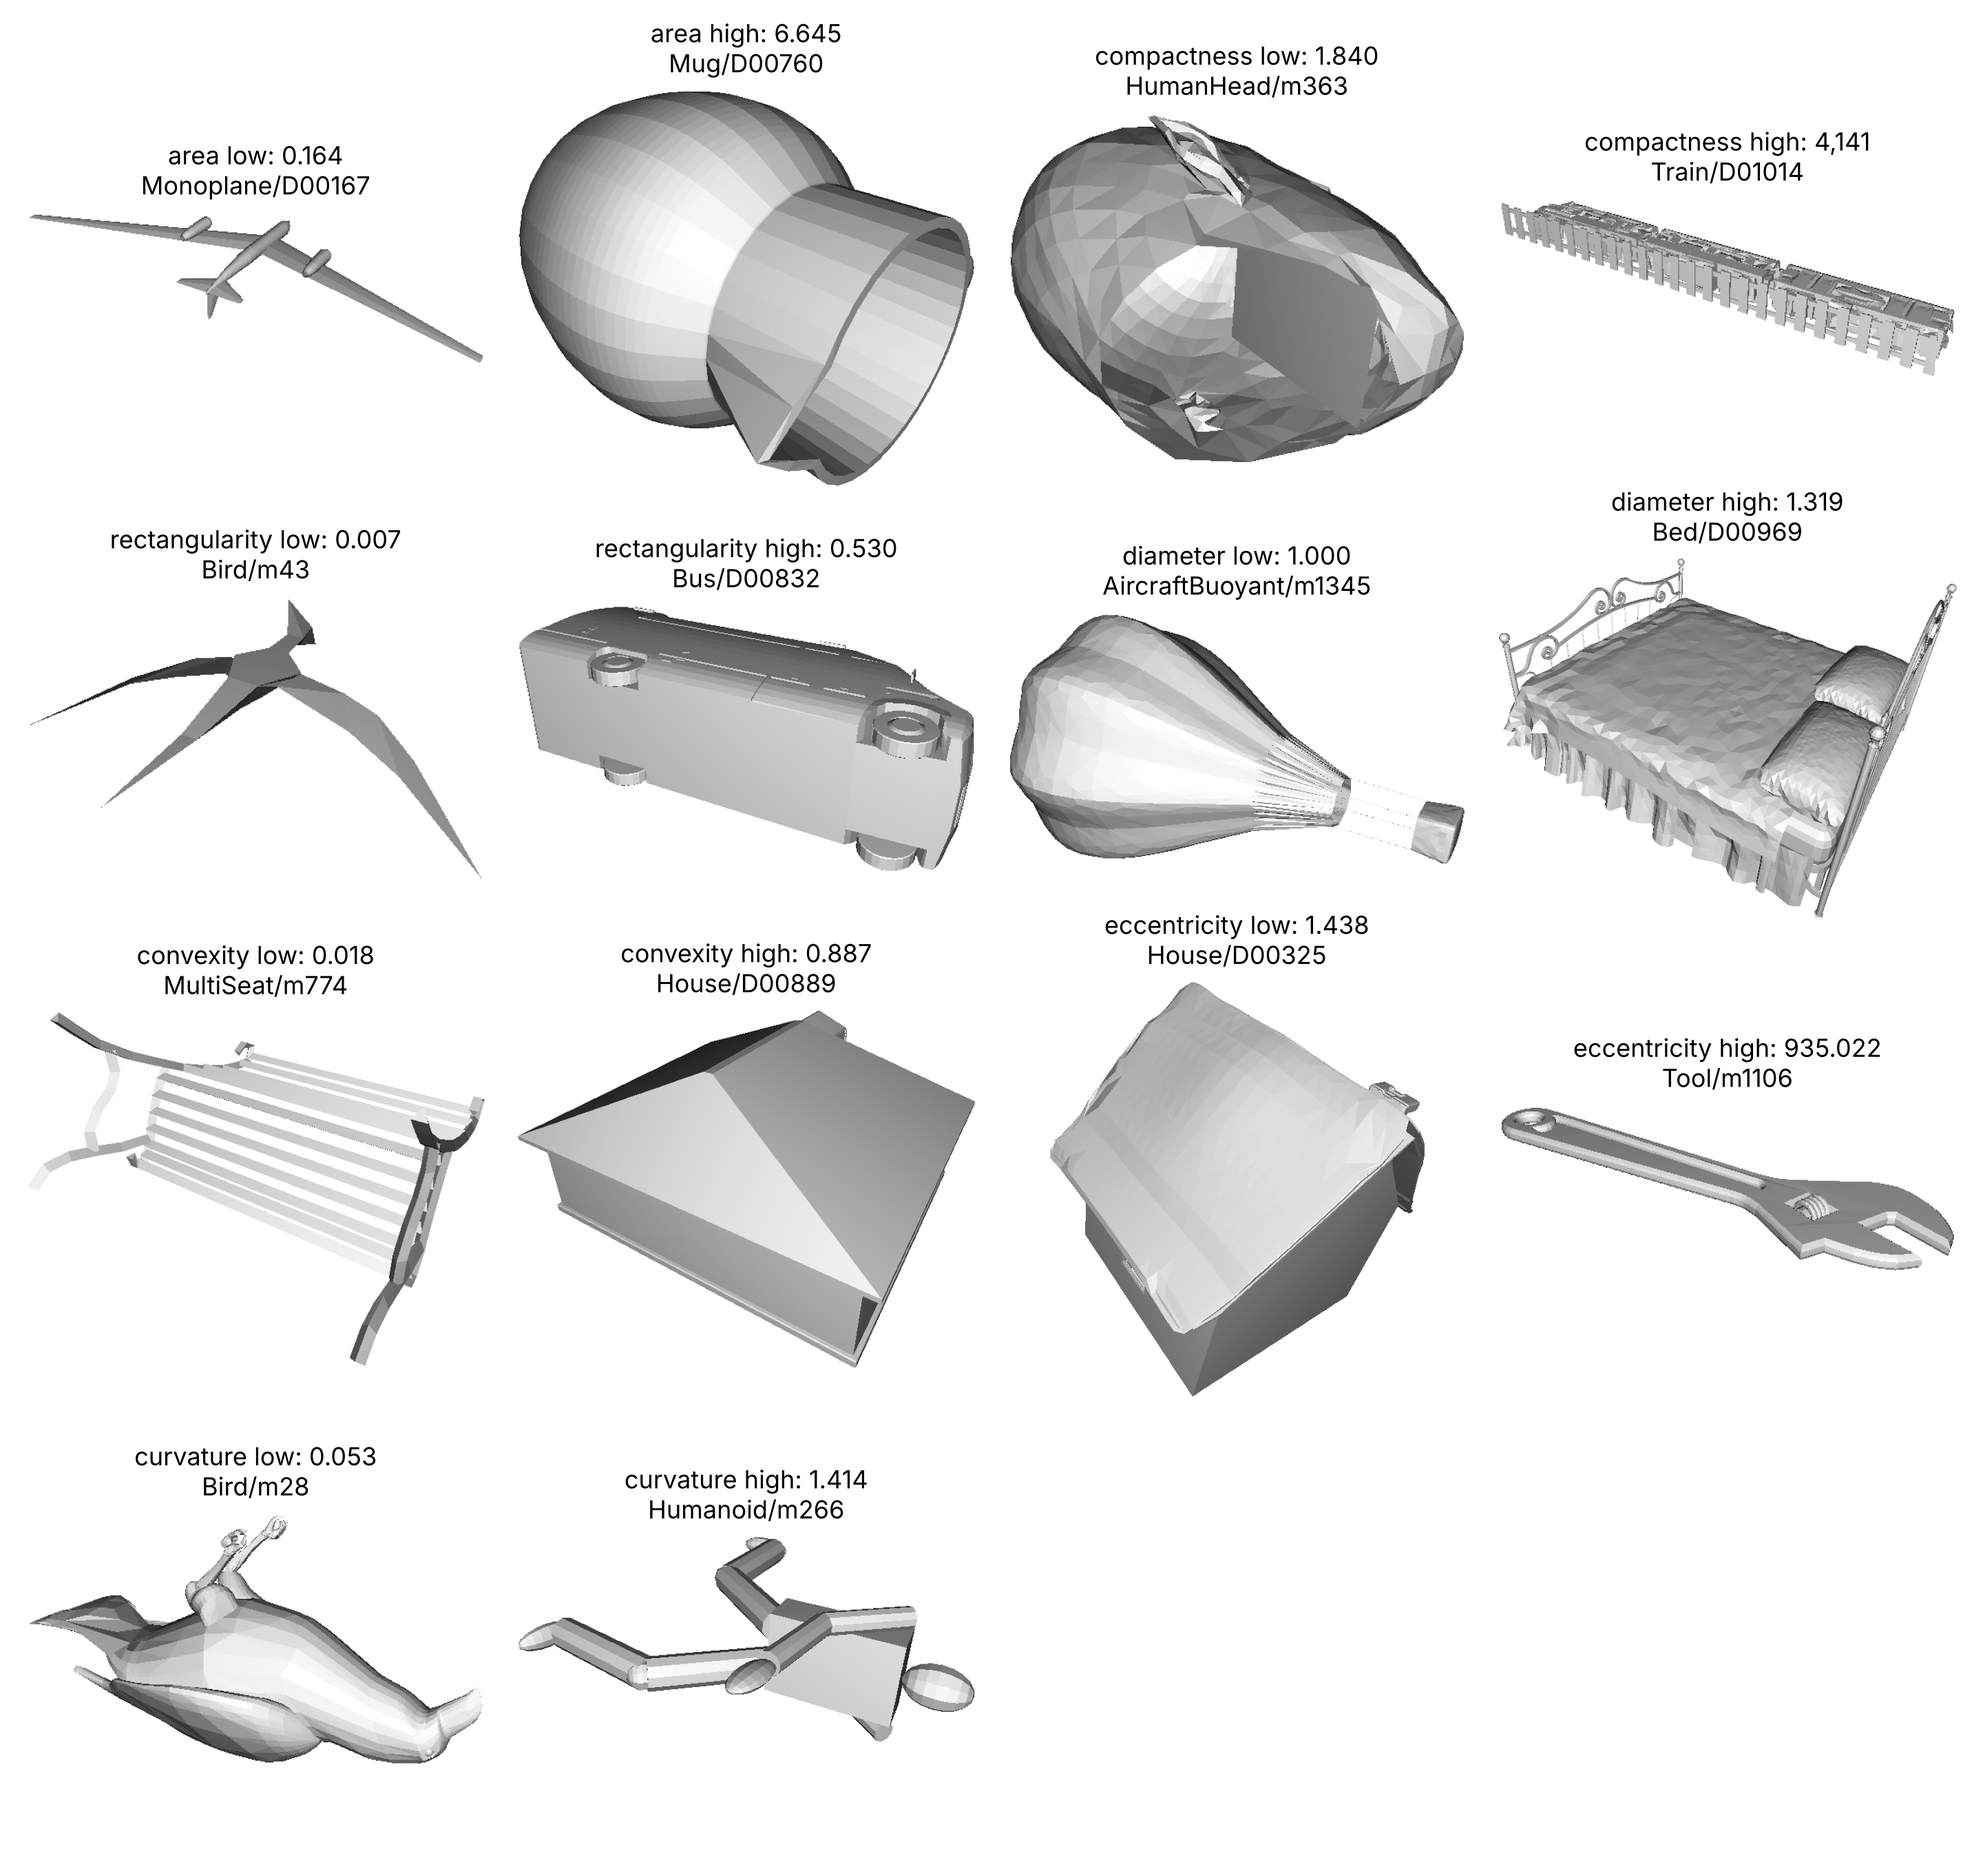
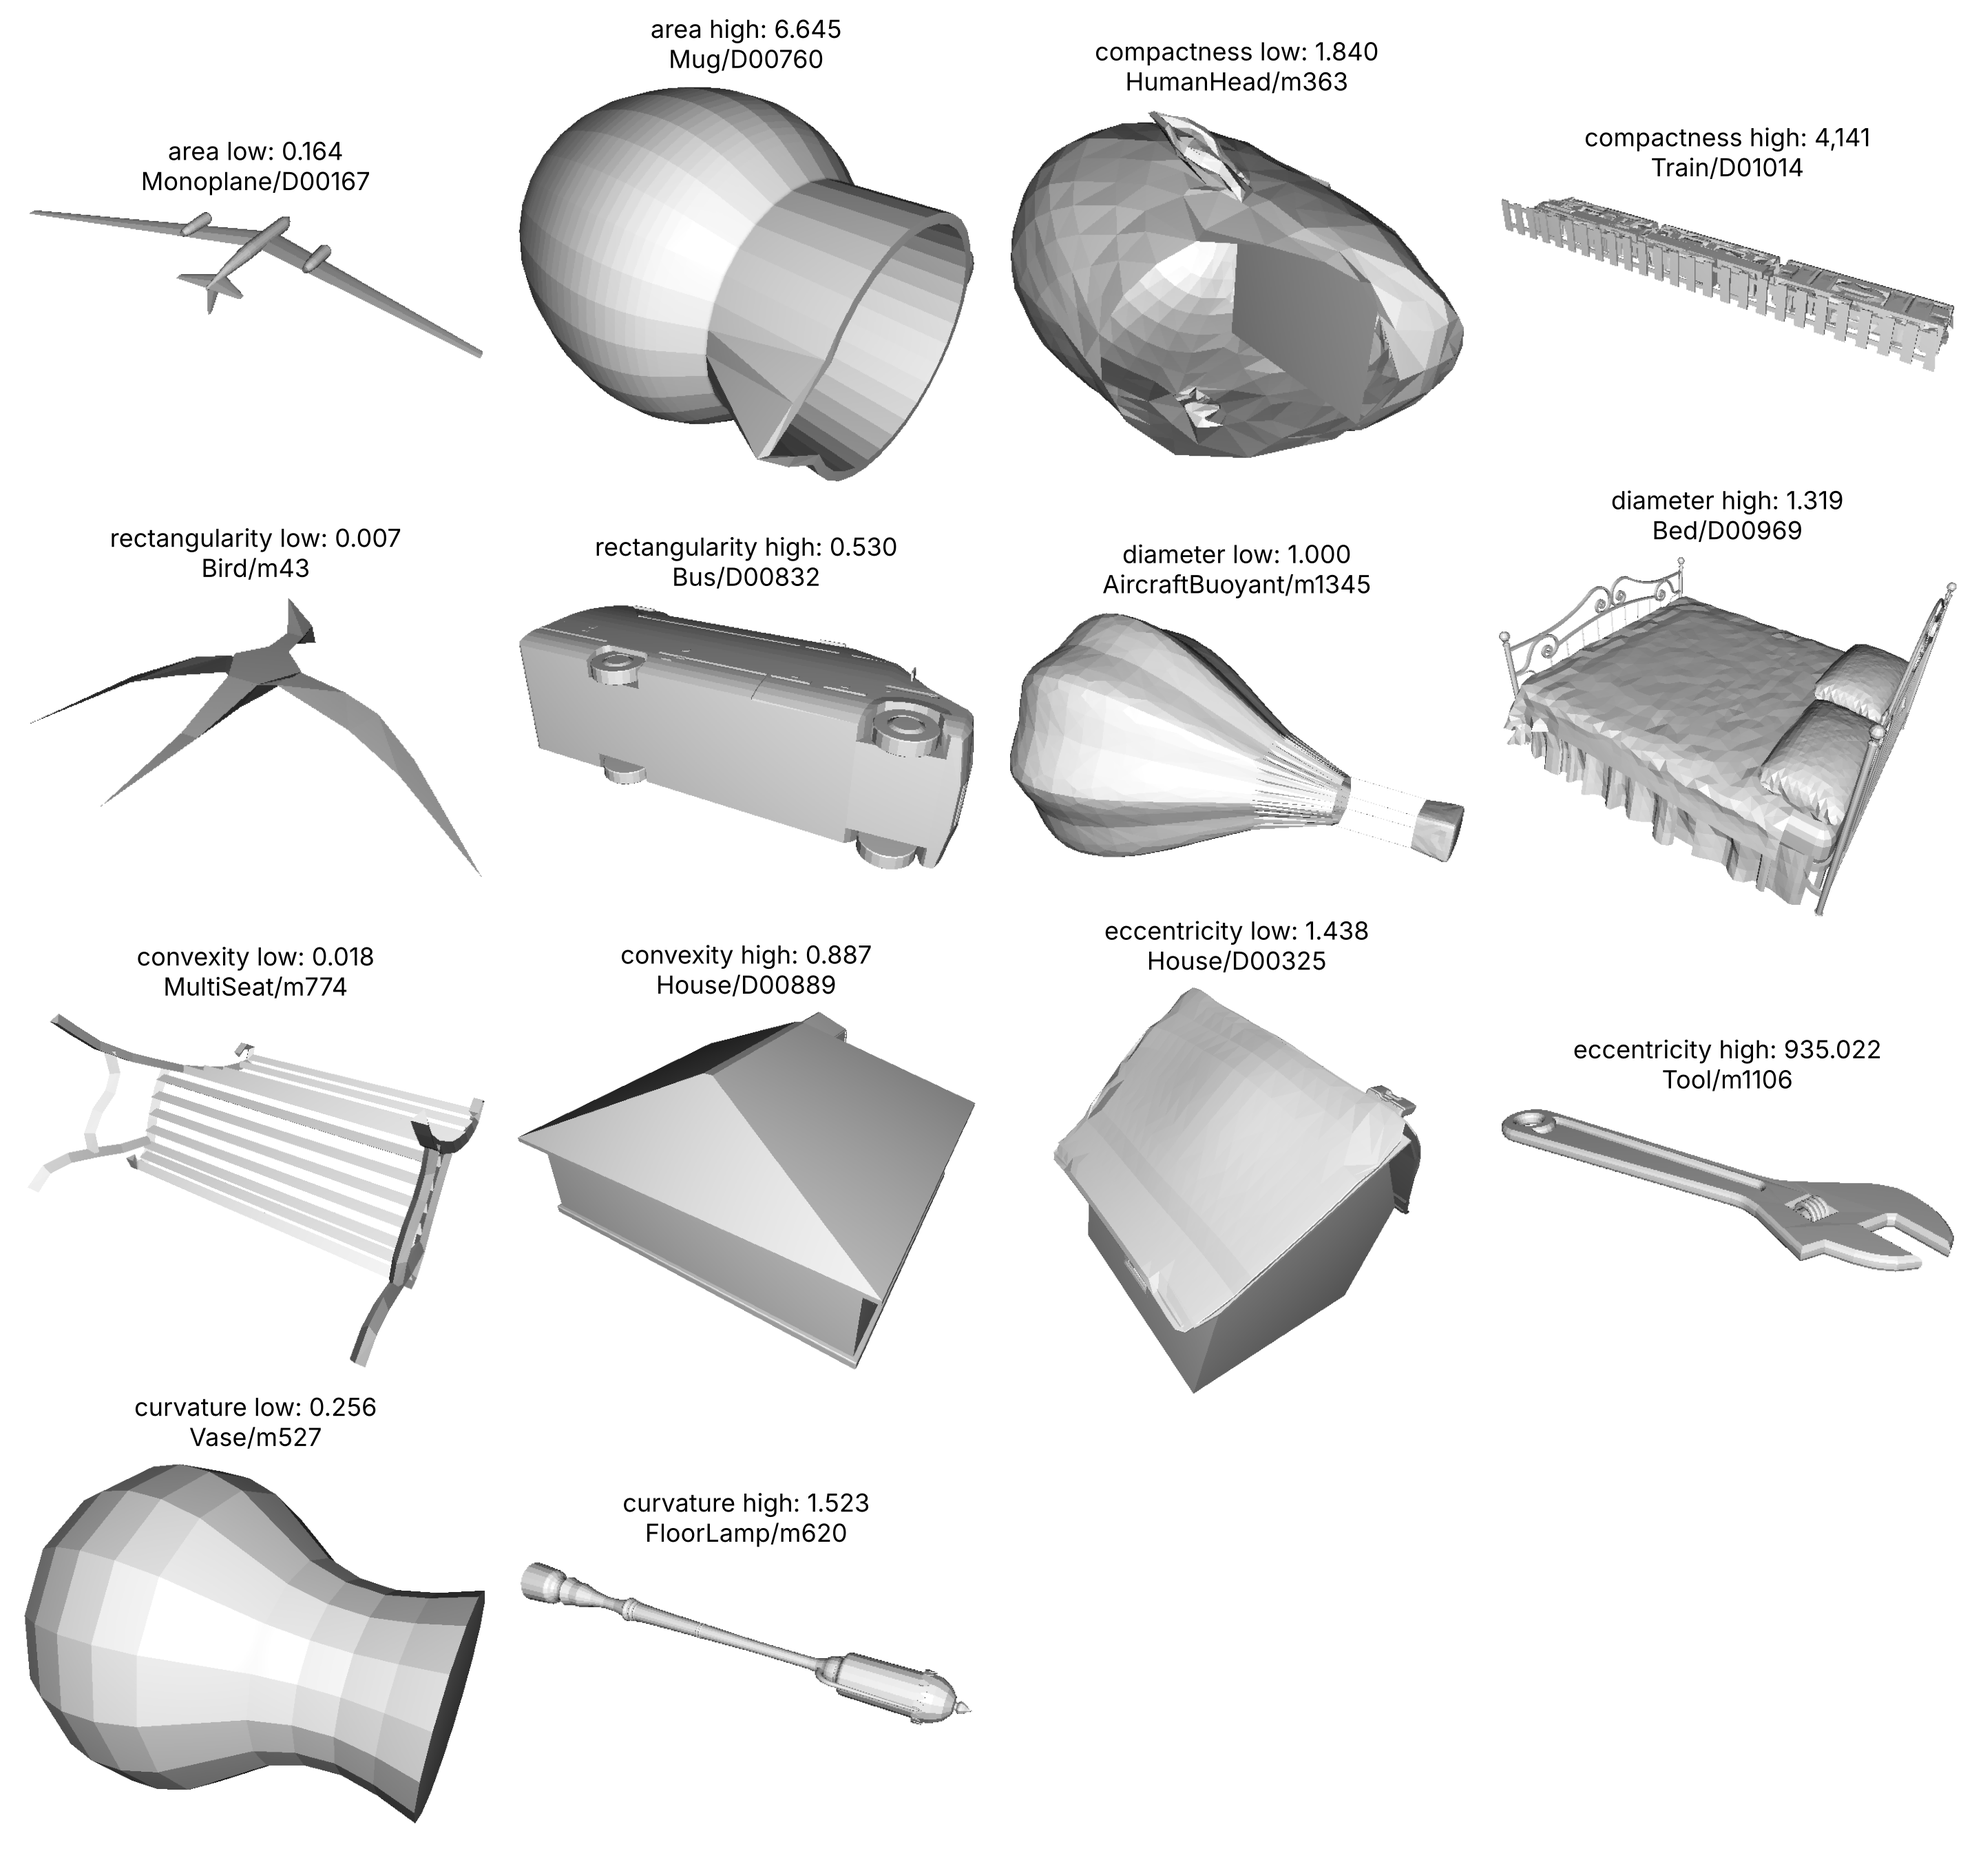
Pick the curvature example pair by the mean absolute curvature

diff --git a/show_descriptors.py b/show_descriptors.py
@@ -18,7 +18,7 @@ descriptors = {
     "diameter": "fits in a ball vs long across the diagonal",
     "convexity": "spiky or hollow vs solid and convex",
     "eccentricity": "bulky vs thin and long",
-    "curvature": "flat or concave vs strongly convex",
+    "curvature": "flat vs strongly bent everywhere",
 }
 
 def caption(row, name, end):
@@ -33,8 +33,10 @@ def main(view=False):
     os.makedirs(examples_dir, exist_ok=True)
     data = pd.read_csv(ft.features_csv)
     curv_cols = [f"CURV_{i}" for i in range(ft.n_bins("CURV"))]
-    centres = ft.bin_centres("CURV")
-    data["curvature"] = (data[curv_cols].values * centres).sum(axis=1)
+    # mean of |curvature|: the sign is unreliable on open sheets (a wrongly oriented part would pull
+    # the signed mean towards 0), and how strongly the surface bends is what we want to show here
+    centres = np.abs(ft.bin_centres("CURV"))
+    data["curvature"] = (data[curv_cols].to_numpy() * centres).sum(axis=1)
 
     picked, images, captions = [], [], []
     for name, story in descriptors.items():
